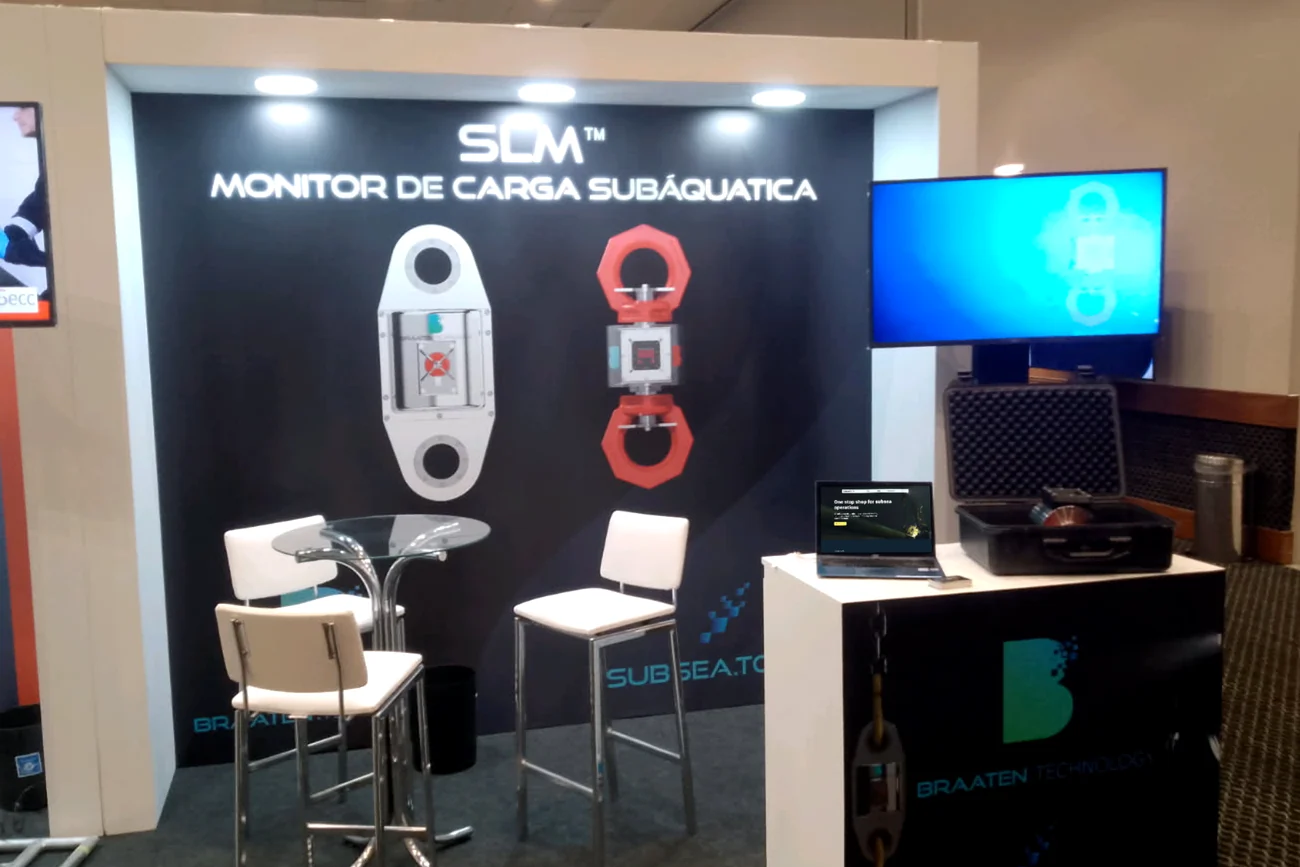
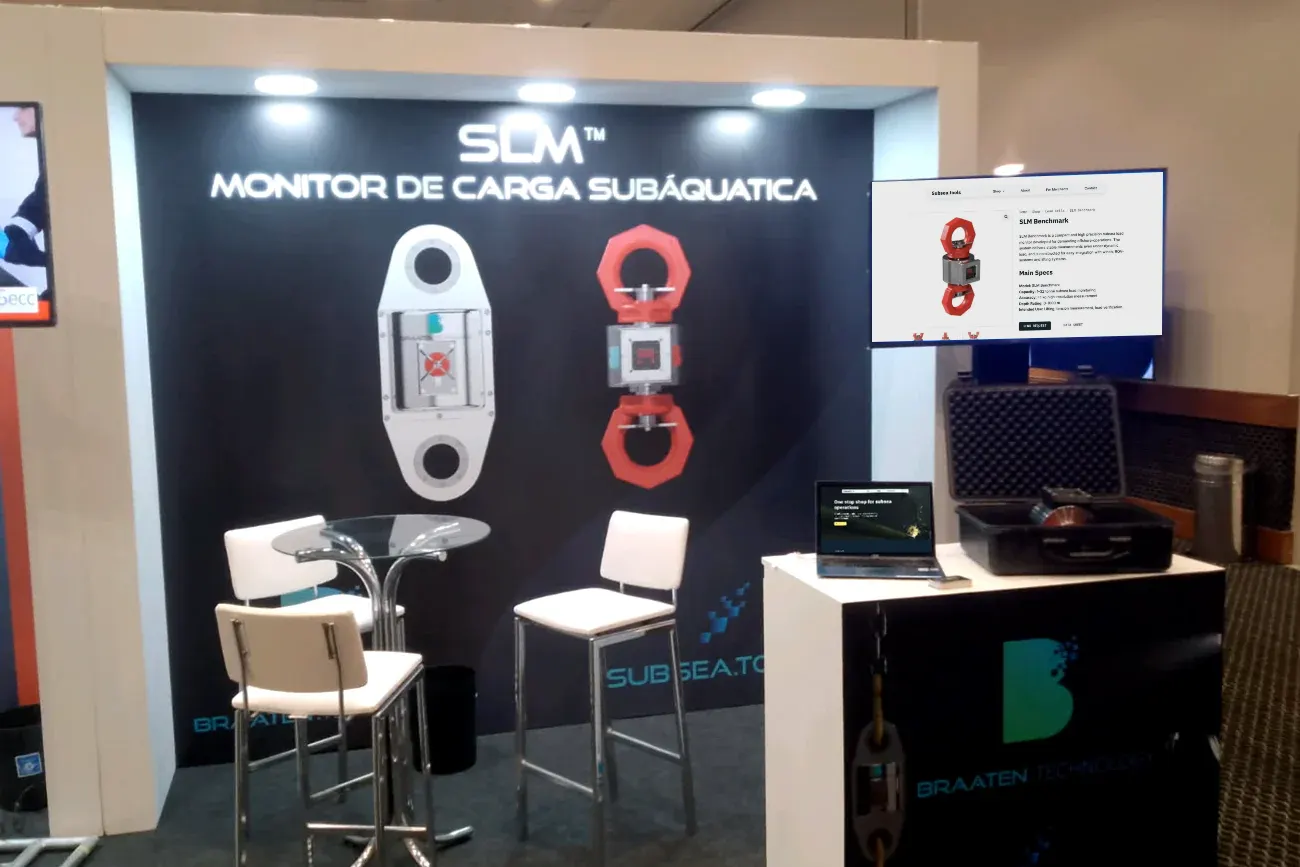
Case feedback: live links, green scores, 2025–26, stand composite, new share image
- Add "Visit autentisitet.no" / "Visit subsea.tools" links under both case titles
- PageSpeed score numbers in green so the improvement stands out
- Both cases dated 2025–26
- Tighter heading line-height so mobile subtitles no longer collide
- Autentisitet: intro notes the old site was built in an outdated, slow builder;
  Andreas described in his own words (teacher, coach and writer); colours
  paragraph reworded so the palette reads as my own work
- Subsea: contact screenshot re-exported with dark padding top and bottom;
  stand photo now shows the SLM Benchmark product page on the TV
- New 1200×630 WebP share image for the front page and blog

Changed region(s): [[0.6462, 0.1869, 0.8923, 0.4048]]

diff --git a/src/routes/work/autentisitet/+page.svelte b/src/routes/work/autentisitet/+page.svelte
@@ -204,13 +204,36 @@ add_action('wp_head', function () {
 	<section class="md:max-w-6xl mx-auto justify-center px-4 pt-40 pb-20">
 		<div>
 			<h1
-				class="text-[2.75rem] min-[380px]:text-[3rem] md:text-7xl font-euclid font-bold text-slate-600 py-4"
+				class="text-[2.75rem] min-[380px]:text-[3rem] md:text-7xl leading-tight font-euclid font-bold text-slate-600 py-4"
 			>
 				Autentisitet.no
-				<span class="text-[2rem] md:text-4xl font-euclid font-medium text-slate-500 py-4"
+				<span class="text-[2rem] md:text-4xl leading-tight font-euclid font-medium text-slate-500"
 					><br />Brand, Design & a 100/100 Bricks Build</span
 				>
 			</h1>
+			<a
+				href="https://autentisitet.no"
+				target="_blank"
+				rel="noopener noreferrer"
+				aria-label="Visit autentisitet.no, opens in a new window"
+				class="live-link inline-flex items-center font-euclid font-medium text-lg text-red-500 hover:text-red-550 mt-2"
+			>
+				Visit autentisitet.no
+				<span class="live-link-icon ml-0.5 transition-transform">
+					<svg
+						xmlns="http://www.w3.org/2000/svg"
+						height="20"
+						viewBox="0 -960 960 960"
+						width="20"
+						aria-hidden="true"
+					>
+						<path
+							d="M215.522-152.348 151.869-216l460.892-460.891H356.413v-91h411v411h-91v-256.348L215.522-152.348Z"
+							fill="currentColor"
+						/>
+					</svg>
+				</span>
+			</a>
 		</div>
 	</section>
 
@@ -222,15 +245,16 @@ add_action('wp_head', function () {
 			<h2 class="pb-2">Introducing Autentisitet.no</h2>
 			<ul class="text-[18px] font-euclid font-light leading-[30px] pr-1 space-y-5">
 				<li>
-					Andreas Aubert is a life coach, psychotherapist and group facilitator. Through
-					Autentisitet.no he offers a 12-week one-to-one programme, breathwork groups and courses,
-					and men's groups. It started with events: in July 2025 we hosted Freedom Breathwork in the
-					garden of my shared house, and in September a second session followed "by popular demand".
+					Andreas Aubert is a teacher, coach and writer. Through Autentisitet.no he offers a 12-week
+					one-to-one programme, breathwork groups and courses, and men's groups. It started with
+					events: in July 2025 we hosted Freedom Breathwork in the garden of my shared house, and in
+					September a second session followed "by popular demand".
 				</li>
 				<li>
 					<strong class="font-semibold">Starting point:</strong> The old site still went by "Unfolding
 					Authenticity", ran on a dated WordPress theme and leaned on stock photos, with Lato and a pale
-					olive palette. It said little about what Andreas actually offers.
+					olive palette. Built in an outdated page builder, it was also slow. It said little about what
+					Andreas actually offers.
 				</li>
 				<li>
 					<strong class="font-semibold">Project Brief & Objectives:</strong> Rebuild autentisitet.no to
@@ -480,10 +504,9 @@ add_action('wp_head', function () {
 			<h3>Mixing a new green</h3>
 			<p>
 				With 01 too dark and 02 too loud, the calm third direction became the base, and the job was
-				to keep it from being bland. I had two candidate greens: a reference green that was a nice
-				shade but too warm and muddy, and a suggestion with exactly the right depth that was a touch
-				too cold. So I mixed one in between, then matched a yellow to it and built the background
-				and text shades from the pair.
+				to keep it from being bland. I had two candidate greens: one was a nice shade but too warm
+				and muddy, the other had exactly the right depth but was a touch too cold. So I mixed one in
+				between, then matched a yellow to it and built the background and text shades from the pair.
 			</p>
 		</div>
 		<div class="max-w-6xl mx-auto mt-10">
@@ -1248,6 +1271,15 @@ add_action('wp_head', function () {
 
 <style lang="postcss">
 	@reference "../../../global.css";
+
+	/* Live-site link under the title */
+	.live-link-icon {
+		transform: translateY(-1px);
+		transition: transform 0.08s;
+	}
+	.live-link:hover .live-link-icon {
+		transform: translateY(-2.5px) translateX(2px);
+	}
 
 	h2 {
 		@apply text-[34px] font-euclid font-medium leading-[48px];

diff --git a/src/routes/work/subsea-tools/+page.svelte b/src/routes/work/subsea-tools/+page.svelte
@@ -140,12 +140,35 @@
 	<!-- Hero title -->
 	<section class="md:max-w-6xl mx-auto justify-center px-4 pt-40 pb-20">
 		<div>
-			<h1 class="text-[3rem] md:text-7xl font-euclid font-bold text-slate-600 py-4">
+			<h1 class="text-[3rem] md:text-7xl leading-tight font-euclid font-bold text-slate-600 py-4">
 				Subsea.tools
-				<span class="text-[2rem] md:text-4xl font-euclid font-medium text-slate-500 py-4"
+				<span class="text-[2rem] md:text-4xl leading-tight font-euclid font-medium text-slate-500"
 					><br />A One-Stop Shop for Subsea Operations</span
 				>
 			</h1>
+			<a
+				href="https://subsea.tools"
+				target="_blank"
+				rel="noopener noreferrer"
+				aria-label="Visit subsea.tools, opens in a new window"
+				class="live-link inline-flex items-center font-euclid font-medium text-lg text-red-500 hover:text-red-550 mt-2"
+			>
+				Visit subsea.tools
+				<span class="live-link-icon ml-0.5 transition-transform">
+					<svg
+						xmlns="http://www.w3.org/2000/svg"
+						height="20"
+						viewBox="0 -960 960 960"
+						width="20"
+						aria-hidden="true"
+					>
+						<path
+							d="M215.522-152.348 151.869-216l460.892-460.891H356.413v-91h411v411h-91v-256.348L215.522-152.348Z"
+							fill="currentColor"
+						/>
+					</svg>
+				</span>
+			</a>
 		</div>
 	</section>
 
@@ -938,7 +961,7 @@
 				<img
 					src="/images/subsea-tools/live-contact.webp"
 					width="800"
-					height="1000"
+					height="1600"
 					loading="lazy"
 					class="{thumb} zooming-white-bg"
 					alt="Contact page: hero 'Talk to an engineer, not a call centre', a request form beside a dark card with email, phone and address, and a named contact below"
@@ -1065,11 +1088,11 @@
 				height="867"
 				loading="lazy"
 				class="w-full h-auto rounded-md zooming-white-bg"
-				alt="Braaten Technology's stand at a subsea symposium in Brazil: a dark wall with two load monitors under the heading 'SLM, Monitor de carga subáquatica', a screen, and a counter with the Braaten and Subsea.tools logos and a laptop showing the Subsea.tools front page"
+				alt="Braaten Technology's stand at a subsea symposium in Brazil: a dark wall with two load monitors under the heading 'SLM, Monitor de carga subáquatica', a screen showing the SLM Benchmark product page on Subsea.tools, and a counter with the Braaten and Subsea.tools logos and a laptop showing the Subsea.tools front page"
 			/>
 			<figcaption>
-				Braaten's stand in Brazil, November 2025, with Subsea.tools on the counter and on the
-				laptop.
+				Braaten's stand in Brazil, November 2025, with Subsea.tools on the counter, on the laptop
+				and on the screen.
 			</figcaption>
 		</figure>
 	</section>
@@ -1120,6 +1143,15 @@
 
 <style lang="postcss">
 	@reference "../../../global.css";
+
+	/* Live-site link under the title */
+	.live-link-icon {
+		transform: translateY(-1px);
+		transition: transform 0.08s;
+	}
+	.live-link:hover .live-link-icon {
+		transform: translateY(-2.5px) translateX(2px);
+	}
 
 	h2 {
 		@apply text-[34px] font-euclid font-medium leading-[48px];

diff --git a/src/lib/caseStudies.js b/src/lib/caseStudies.js
@@ -3,7 +3,7 @@ export const caseStudies = [
 		title: 'Subsea.tools',
 		href: '/work/subsea-tools',
 		ariaLabel: 'Subsea.tools Case Study',
-		category: 'BRANDING | WEB DESIGN | DEVELOPMENT | 2025',
+		category: 'BRANDING | WEB DESIGN | DEVELOPMENT | 2025–26',
 		image: '/images/thumbs/subsea-thumb-800x500.webp',
 		imageDesktop: '/images/thumbs/subsea-thumb-620x387.webp',
 		imageMobile: '/images/thumbs/subsea-thumb-380x237.webp',
@@ -13,7 +13,7 @@ export const caseStudies = [
 		title: 'Autentisitet.no',
 		href: '/work/autentisitet',
 		ariaLabel: 'Autentisitet.no Case Study',
-		category: 'BRANDING | WEB DESIGN | DEVELOPMENT | 2025',
+		category: 'BRANDING | WEB DESIGN | DEVELOPMENT | 2025–26',
 		image: '/images/thumbs/autthumb800500.webp',
 		imageDesktop: '/images/thumbs/autthumb620387.webp',
 		imageMobile: '/images/thumbs/autthumb380237.webp',

diff --git a/src/routes/+page.svelte b/src/routes/+page.svelte
@@ -40,9 +40,9 @@
 		description: 'Portfolio for Anders Rådal - Product & UX Designer',
 		images: [
 			{
-				url: 'https://www.andersra.com/images/thumbs/PageThumb.webp',
-				width: 500,
-				height: 333,
+				url: 'https://www.andersra.com/images/thumbs/og-front.webp',
+				width: 1200,
+				height: 630,
 				alt: 'Page Thumbnail'
 			}
 		],
@@ -54,7 +54,7 @@
 		site: '@AndersRadal',
 		title: 'Portfolio for Anders Rådal - Product & UX Designer',
 		description: 'Portfolio for Anders Rådal - Product & UX Designer',
-		image: 'https://www.andersra.com/images/thumbs/PageThumb.webp'
+		image: 'https://www.andersra.com/images/thumbs/og-front.webp'
 	}}
 	jsonLd={{
 		'@context': 'https://schema.org',

diff --git a/src/routes/blog/+page.svelte b/src/routes/blog/+page.svelte
@@ -40,9 +40,9 @@
 		description: 'Reflections on my journey in design and code.',
 		images: [
 			{
-				url: 'https://www.andersra.com/images/thumbs/PageThumb.webp',
-				width: 500,
-				height: 333,
+				url: 'https://www.andersra.com/images/thumbs/og-front.webp',
+				width: 1200,
+				height: 630,
 				alt: 'Page Thumbnail'
 			}
 		],
@@ -54,7 +54,7 @@
 		site: '@AndersRadal',
 		title: 'Blog by Anders Rådal',
 		description: 'Reflections on my journey in design and code.',
-		image: 'https://www.andersra.com/images/thumbs/PageThumb.webp'
+		image: 'https://www.andersra.com/images/thumbs/og-front.webp'
 	}}
 />
 

diff --git a/src/components/case/ScoreTile.svelte b/src/components/case/ScoreTile.svelte
@@ -22,7 +22,7 @@
 			>
 			<span class="sr-only">to</span>
 		{/if}
-		<span class="text-7xl leading-none font-medium text-zinc-100">{score}</span>
+		<span class="text-7xl leading-none font-medium" style="color: #0CCE6B">{score}</span>
 	</span>
 	<span class="text-sm font-light">{details}</span>
 	<span class="text-sm font-light text-zinc-300">{lcp}</span>
